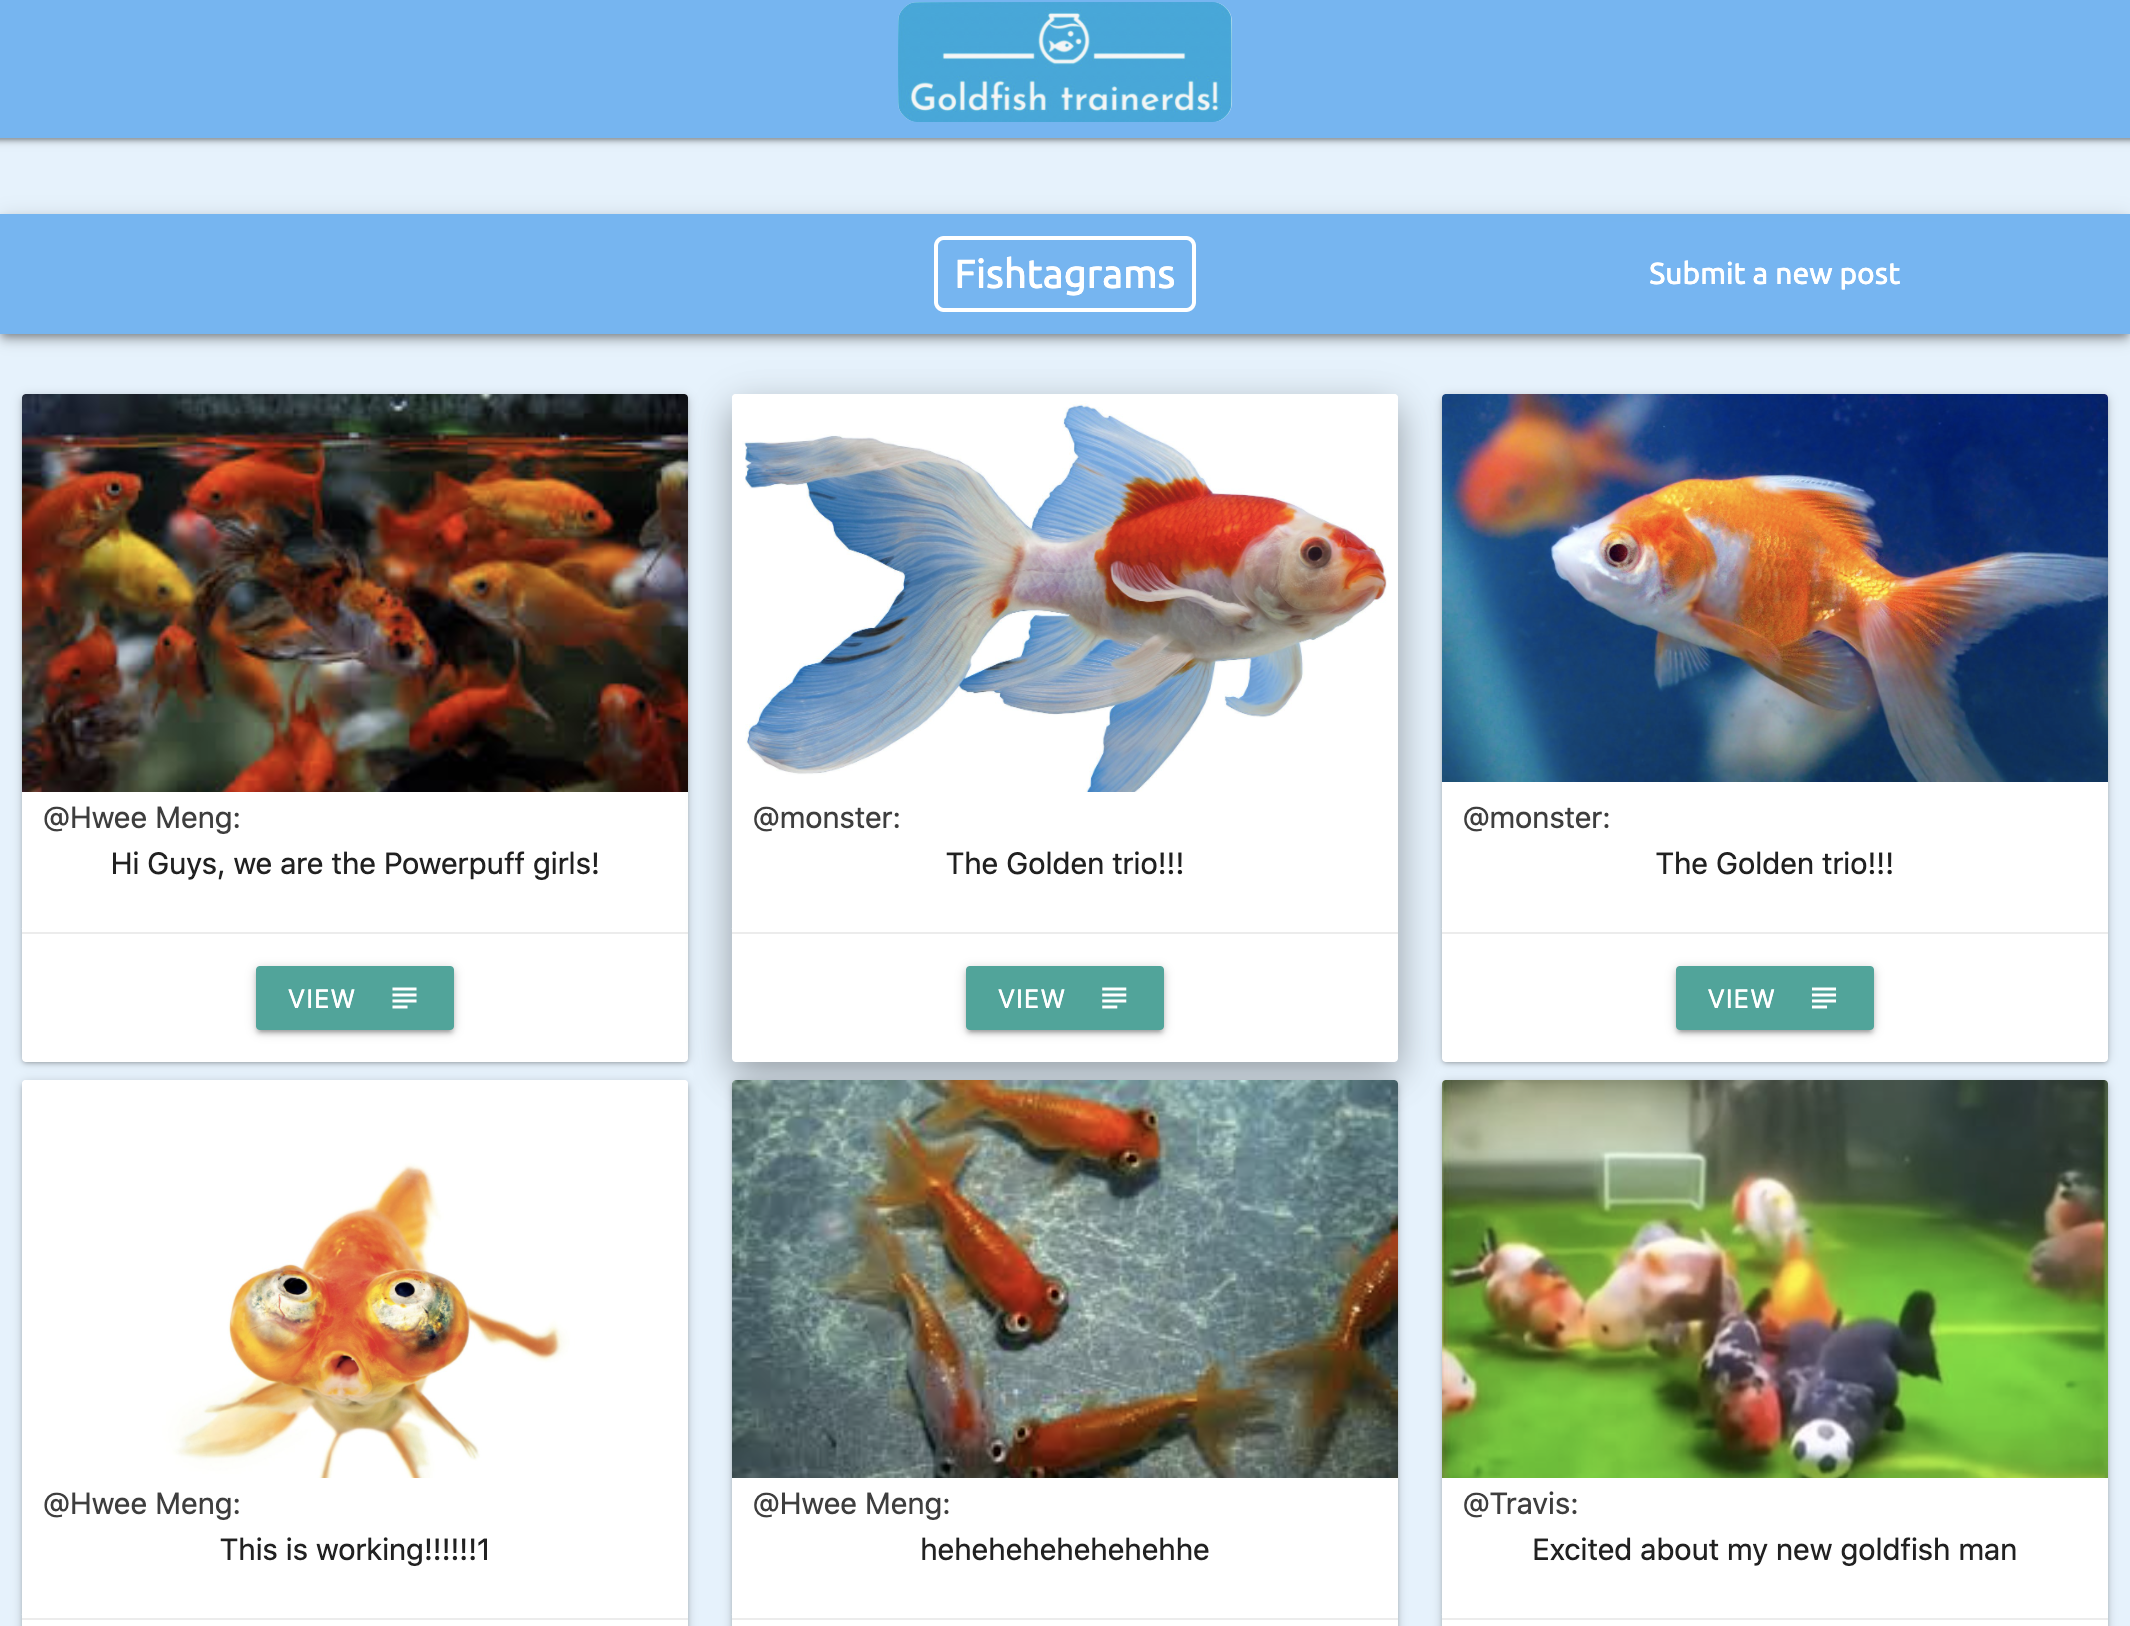
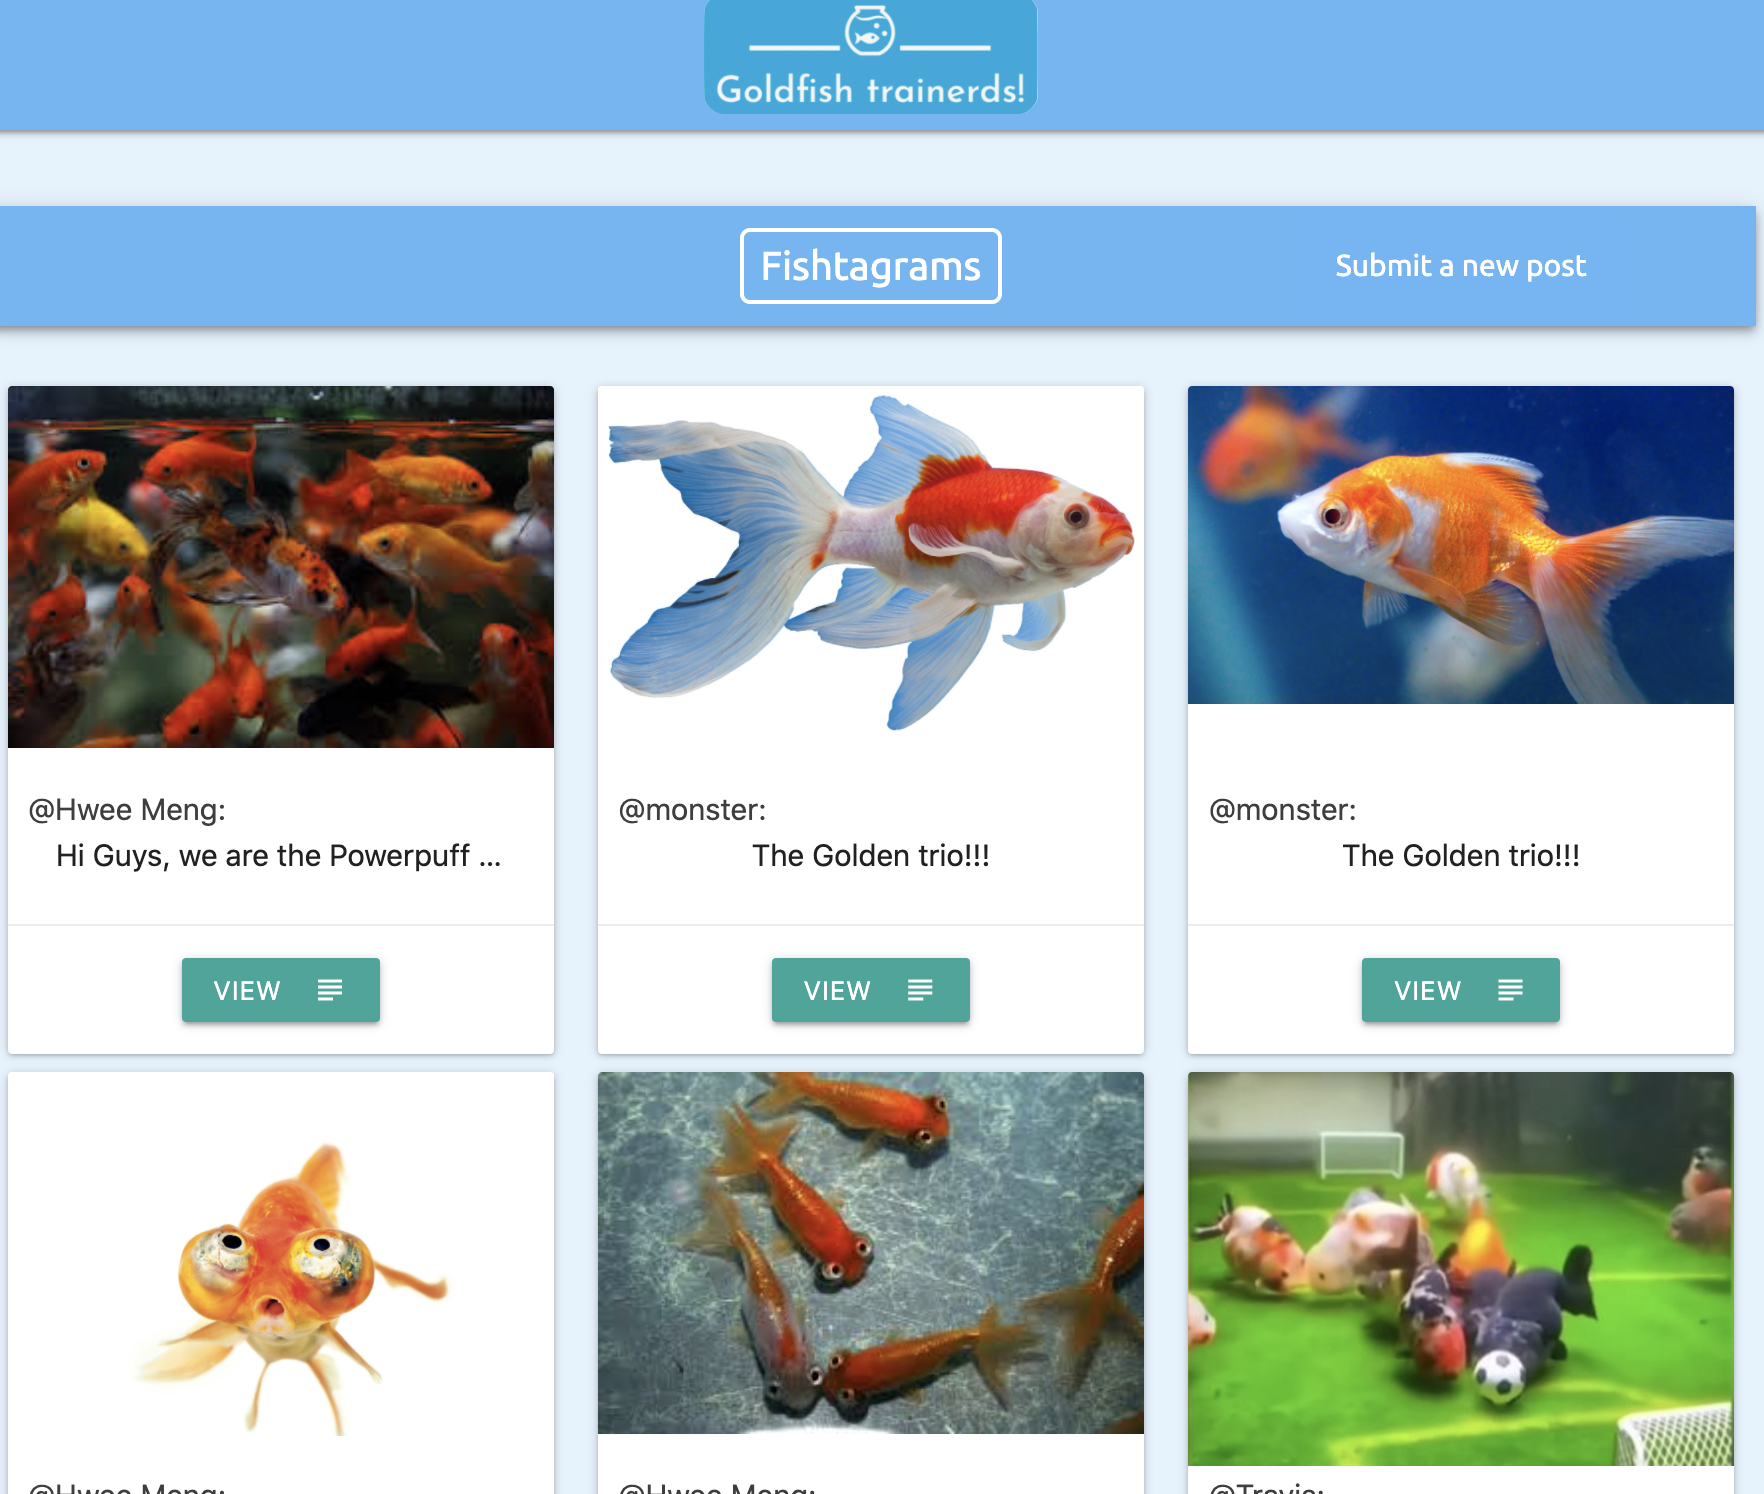
changed styles

diff --git a/app/assets/stylesheets/application.css b/app/assets/stylesheets/application.css
@@ -15,7 +15,7 @@
  */
 
  #holder{
- 	margin: 2 auto;
+ 	margin: 2;
  }
 
  .link{
@@ -27,3 +27,7 @@
  	color:red;
 
  }
+
+.card{
+	margin: 0px 10px;
+}
